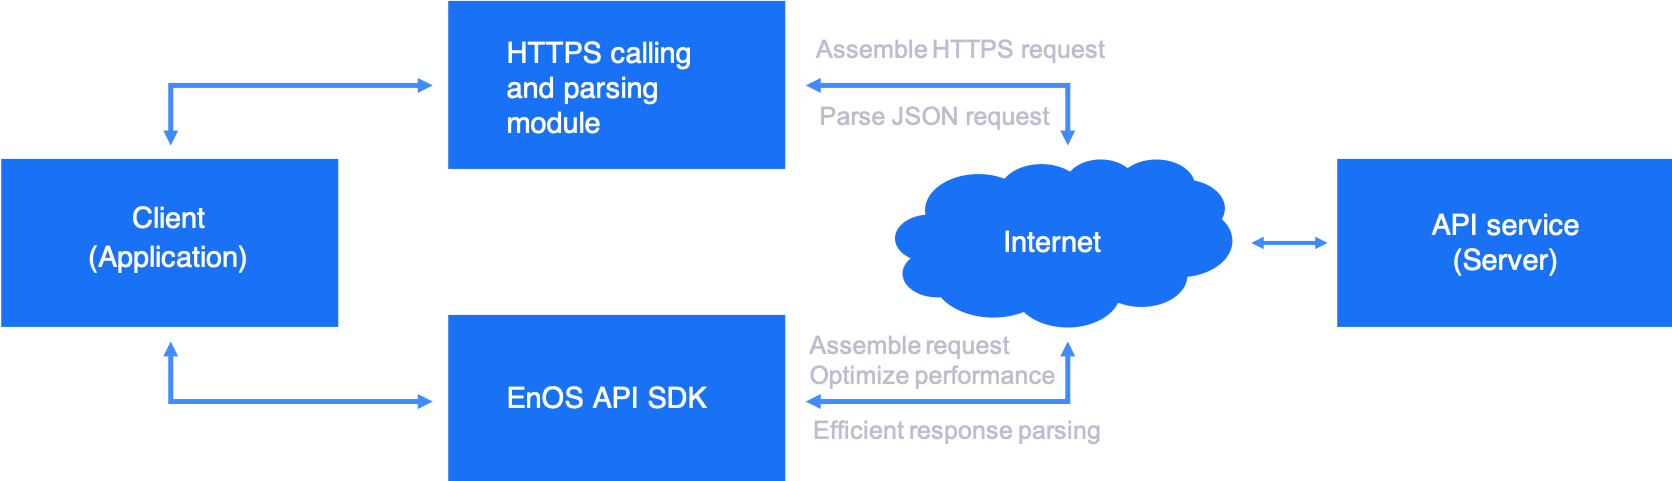
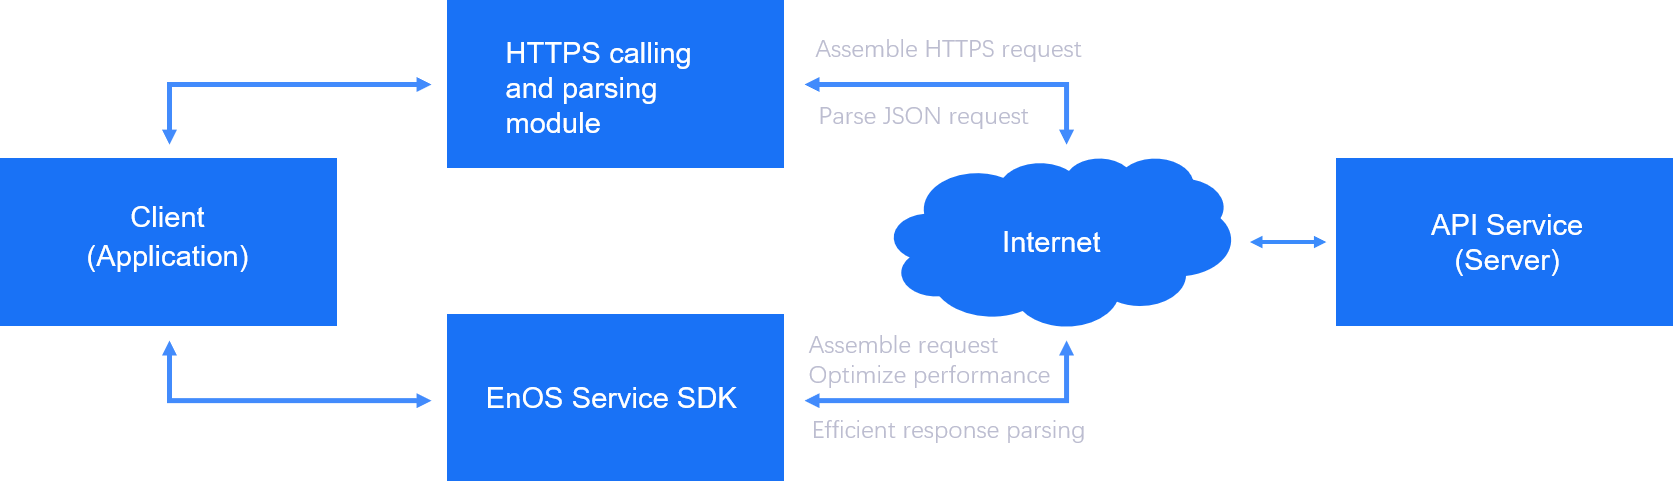
Update.

diff --git a/gettingstarted_sdk.md b/gettingstarted_sdk.md
@@ -1,30 +1,32 @@
-# Getting Started With EnOS Java SDKs
+# Getting Started With EnOS SDKs
 
-EnOS provides Java SDKs to support offline application development. The Java SDKs assembles API request URL, generates signature, parses response, and optimizes application performance.
+EnOS provides SDKs to support offline application development. The EnOS SDKs assembles API request URL, generates signature, parses response, and optimizes application performance.
 
-This learning module aims to help you learn how to prepare the development environment and use the Java SDK to call EnOS APIs through the example of EnOS API SDK.
+This learning module aims to help you learn how to prepare the development environment and use EnOS SDKs to call EnOS APIs through the example of EnOS Service SDKs.
 
 ## Before You Start
 
 Ensure you have resources on EnOS that you are authorized to access. The resources can be devices, data, events, user accounts, and so on. So before you start using EnOS APIs, you typically have finished connecting your devices and data into EnOS, and have a user account that has proper access policies assigned through EnOS IAM function.
 
-To use EnOS API SDK, a service account (`accessKey` and `secretKey`) is required. The service account is generated by registering an application in the EnOS Console.
+To use EnOS SDKs, a service account (`accessKey` and `secretKey`) is required. The service account is generated by registering an application in the EnOS Console.
 
-## Preparing the Development Environment
+## Installing EnOS SDKs
 
-1. Install Java JDK SE 8.
-2. Install **_Maven 3_**.
-3. Obtain the SDK to use.
-  You can obtain the EnOS API SDK through the following methods:
-  * Include the project as a dependency in your Maven project.
-  * Download the source code by cloning the GitHub repository and build on your machine.
+The system environment requirements for EnOS SDKs are as follows:
+
+- For Java, install Java JDK SE 8 and Maven 3 (recommended).
+- For Python, intall Python 2.7.10 or above version, and `pip` is required.
+
+You can obtain the EnOS SDKs through the following methods:
+* For Java, include the project as a dependency in your Maven project. For Python, install SDKs through PIP.
+* Download the source code by cloning the GitHub repository and build on your machine.
 
 ### From Maven (as a dependency)
 
-  _This is the recommended method of including the EnOS SDKs in your project._
+  _This is the recommended method of including the EnOS Java SDKs in your project._
 
 1. Navigate to http://search.maven.org, search for **com.envisioniot.enos** and take note of the latest version number (or the version number of whichever version of the sdk you want to use).
-2. In your main `pom.xml` file, add the EnOS API SDK as a dependency as follows:
+2. In your main `pom.xml` file, add the SDK for Java as a dependency (take the EnOS Service SDK for Java as example):
   ```java
   	<dependency>
       <groupId>com.envisioniot</groupId>
@@ -34,17 +36,25 @@ To use EnOS API SDK, a service account (`accessKey` and `secretKey`) is required
       </dependency>
   ```
 
-### Build SDK from Source Code and Import into IDE
+### Install from PIP
 
-1. Get a copy of the **EnOS API SDK for Java** from the master branch of the GitHub repository:
+Use the following command to install EnOS SDKs for Python (take the EnOS Service SDK for Python as example):
+
+```
+pip install enos-api-sdk-python
+```
+
+### Building from Source Code
+
+1. Get a copy of the SDKs from the master branch of the corresponding GitHub repository (take the EnOS Service SDK for Java as example):
   ```
   git clone https://github.com/EnvisionIot/enos-api-sdk-java.git
   ```
 2. After you have obtained a copy of the source, you can build the SDK for Java.
 
 
-## Using EnOS API SDK
-Take the following major steps to use EnOS API SDK to call an API.
+## Example. Using EnOS Service SDK for Java
+Take the following major steps to use EnOS Service SDK for Java to call an API.
 
 1. Retrieve service account and secret, `EnOSDefaultClient`.
 
@@ -57,7 +67,7 @@ Take the following major steps to use EnOS API SDK to call an API.
    EnOSDefaultClient client = new EnOSDefaultClient(serverUrl, accessKey,secretKey,connectTimeout,readTimeout);
    ```
 
-2. Build and execute the request. Take `getPolicy` API as an example:
+2. Build and execute the request. Take the `getPolicy` API as an example:
 
    ```
    GetPolicyRequest request = new GetPolicyRequest(policyId, orgId);

diff --git a/sdk_overview.md b/sdk_overview.md
@@ -1,22 +1,48 @@
 # EnOS SDK Overview
 
-EnOS provides SDKs to support users and developers on device connection, device registration, data ingestion, application development, and application management. This section provides and overview of EnOS SDKs. 
+EnOS provides SDKs to support users and developers on device connection, device registration, data ingestion, application development, and application management. This section provides and overview of EnOS SDKs.
 
-## EnOS Device SDK for Java
+## EnOS Device SDKs
 
-The **EnOS IoT MQTT SDK** for Java provides various device connection and management interfaces, such as device registration, device data ingestion, and device control, to help you send device telemetries to the EnOS Cloud and receive data or commands from the cloud.
+The **EnOS Device SDKs** provide various device connection and management interfaces, such as device registration, device data ingestion, and device control, to help you send device telemetries to the EnOS Cloud and receive data or commands from the cloud.
+
+### EnOS Device SDK for MQTT for Java
 
 - [Include dependency in Maven project](https://mvnrepository.com/artifact/com.envisioniot/enos-mqtt/2.1.0)
 - [Obtain source code from GitHub](https://github.com/EnvisionIot/enos-mqtt-sdk-java)
 
-## EnOS Service SDK for Java
+### EnOS Device SDK for MQTT for Python (Preview Edition)
 
-The **EnOS IoT Service SDK** for Java supports application development through calling EnOS API services (connect service, model service, asset service, data service, and file service). 
+- Install from PIP
 
-- [Include dependency in Maven project](https://mvnrepository.com/artifact/com.envisioniot/enos-api/2.1.0) 
-- [Obtain Source code from GitHub](https://github.com/EnvisionIot/enos-api-sdk-java)
+  ```
+  pip install enos-mqtt-sdk-python
+  ```
 
-- View [API Reference](gettingstarted_api)
+- [Obtain source code from GitHub](https://github.com/EnvisionIot/enos-mqtt-sdk-java)
+
+## EnOS Service SDKs
+
+The **EnOS Service SDKs** support application development through calling EnOS REST API services (connect service, model service, asset service, data service, and file service).
+
+### EnOS Service SDK for Java
+
+- [Include dependency in Maven project](https://mvnrepository.com/artifact/com.envisioniot/enos-api/2.1.0)
+- [Obtain source code from GitHub](https://github.com/EnvisionIot/enos-api-sdk-java)
+
+- View [API Reference](https://docs.envisioniot.com/docs/app-development/en/latest/gettingstarted_api#step-2-accessing-api-documentation) from the EnOS Console
+
+### EnOS Service SDK for Python (Preview Edition)
+
+- Install from PIP
+
+  ```
+  pip install enos-api-sdk-python
+  ```
+
+- [Obtain source code from GitHub](https://github.com/EnvisionIot/enos-api-sdk-java)
+
+- View [API Reference](https://docs.envisioniot.com/docs/app-development/en/latest/gettingstarted_api#step-2-accessing-api-documentation) from the EnOS Console
 
 ## EnOS Appframework Mars
 
@@ -26,5 +52,4 @@ The EnOS Appframework Mars SDK provides a framework and a set of easy-to-use API
 
 ## Related Links
 
-- [Getting started with EnOS Java SDKs](gettingstarted_sdk)
-
+- [Getting Started with EnOS SDKs](gettingstarted_sdk)

diff --git a/enos_apis_overview.md b/enos_apis_overview.md
@@ -18,8 +18,8 @@ EnOS mainly provides the following categories of APIs:
 
 EnOS REST APIs can be called through HTTP protocol. You can choose one of the following options to call EnOS APIs:
 
-- **Use EnOS API SDK offline**: Official SDK provided by EnOS, supporting request URL assembling, signature generation, response parsing, and APP performance optimization. You are recommended to use EnOS API SDK. For detailed instructions, see [Getting Started with EnOS Java SDKs](gettingstarted_sdk).
-- **Use REST APIs through online HTTP request**: Wrap up API service URL, parameters, and signatures manually to assemble HTTP requests to call an API. For detailed instructions, see [Calling EnOS REST API](call_enos_api).
+- **Use EnOS API SDK offline**: Official SDK provided by EnOS, supporting request URL assembling, signature generation, response parsing, and APP performance optimization. You are recommended to use EnOS API SDK. For detailed instructions, see [Getting Started with EnOS SDKs](gettingstarted_sdk).
+- **Use REST APIs through online HTTP request**: Wrap up API service URL, parameters, and signatures manually to assemble HTTP requests to call an API. For detailed instructions, see [Calling EnOS REST APIs](call_enos_api).
 
 The figure below shows the process of calling EnOS API:
 
@@ -28,5 +28,4 @@ The figure below shows the process of calling EnOS API:
 ## Related Links
 
 - [Getting Started with EnOS REST APIs](gettingstarted_api)
-- [Getting Started with EnOS Java SDKs](gettingstarted_sdk)
-
+- [Getting Started with EnOS SDKs](gettingstarted_sdk)
